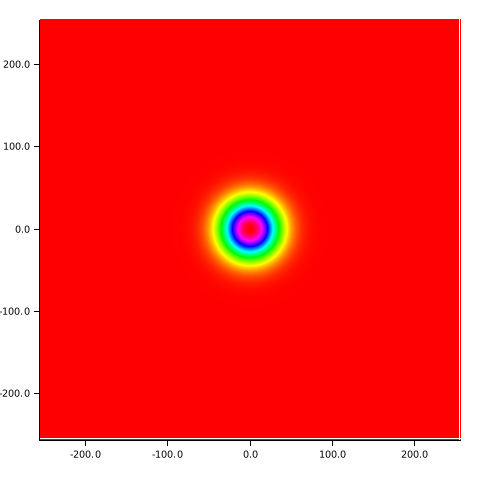
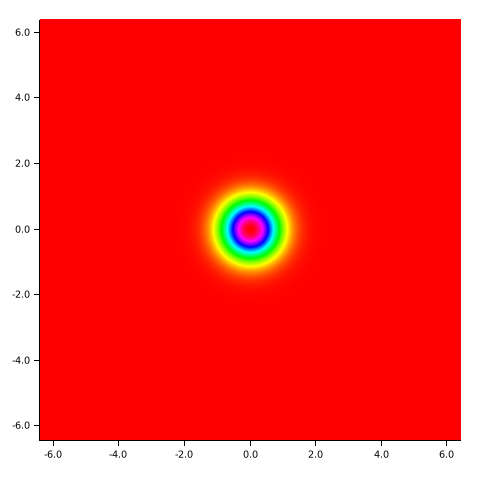
add an imaginary time solver and resolve clippy lints

diff --git a/src/solver.rs b/src/solver.rs
@@ -298,7 +298,7 @@ impl Solver {
     /// # Ok(())
     /// # }
     /// ```
-    pub fn evolve(&mut self, psi: &mut [C], dt: f64, nt: usize) -> Result<(), SolverError>
+    pub fn evolve(&mut self, psi: &mut [C], dt: R, nt: usize) -> Result<(), SolverError>
     {
         // check that `psi` has the right number of points
         if psi.len() != self.n_points {
@@ -313,6 +313,72 @@ impl Solver {
             self.evolve_k_space(psi, dt)?;
         }
         self.evolve_x_space(psi, 0.5*dt);
+
+        Ok(())
+    }
+    
+    /// evolve the wave function in imaginary time
+    ///
+    /// # Arguments
+    ///
+    /// * `psi`: array containing the initial condition; it will be mofidied to contain the final
+    /// configuration
+    /// * `dt`: time step
+    /// * `nt`: number of time steps
+    ///
+    /// # Error
+    ///
+    /// Return a `SolverError` if the input has a length different from `n_points` or if one of the
+    /// (direct or inverse) Fourier transforms fails.
+    ///
+    /// # Example
+    ///
+    /// ```
+    /// use nonlinear_schrodinger::prelude::*;
+    ///
+    /// # fn main() -> Result<(), nonlinear_schrodinger::SolverError> {
+    /// #
+    /// // parameters
+    /// let shape: Vec<usize> = vec![128, 128];
+    /// let steps: Vec<R> = vec![0.1, 0.1];
+    /// let potential_fun = |x: &[R]| { 0. };
+    /// let g = |x| x;
+    ///
+    /// // build the solver
+    /// let mut solver = Solver::new(shape, steps, Box::new(potential_fun), Box::new(g))?;
+    ///
+    /// // initial condition
+    /// let mut psi = vec![C::new(1., 0.); 128*128];
+    ///
+    /// // evolution
+    /// let dt = 0.1;
+    /// let nt = 100;
+    /// solver.evolve_i(&mut psi, dt, nt)?;
+    /// #
+    /// # Ok(())
+    /// # }
+    /// ```
+    pub fn evolve_i(&mut self, psi: &mut [C], dt: R, nt: usize) -> Result<(), SolverError>
+    {
+        // check that `psi` has the right number of points
+        if psi.len() != self.n_points {
+            return Err(SolverError { message: format!(
+                        "Invalid input size: expected {}, got {}",
+                        self.n_points, psi.len())});
+        }
+
+        let m0 = self.mass(psi)?;
+
+        self.evolve_x_space_i(psi, -0.5*dt);
+        self.renormalize(psi, m0)?;
+        for _ in 0..nt {
+            self.evolve_x_space_i(psi, dt);
+            self.renormalize(psi, m0)?;
+            self.evolve_k_space_i(psi, dt)?;
+            self.renormalize(psi, m0)?;
+        }
+        self.evolve_x_space_i(psi, 0.5*dt);
+        self.renormalize(psi, m0)?;
 
         Ok(())
     }
@@ -364,25 +430,95 @@ impl Solver {
     /// # Ok(())
     /// # }
     /// ```
-    pub fn evolve_oop(&mut self, psi0: &[C], dt: f64, nt: usize) -> Result<Vec<C>, SolverError>
+    pub fn evolve_oop(&mut self, psi0: &[C], dt: R, nt: usize) -> Result<Vec<C>, SolverError>
     {
         let mut psi = psi0.to_vec();
         self.evolve(&mut psi, dt, nt)?;
         Ok(psi)
     }
+    
+    /// evolve the wave function in imaginary time out of place
+    ///
+    /// # Arguments
+    ///
+    /// * `psi`: array containing the initial condition; it will be mofidied to contain the final
+    /// configuration
+    /// * `dt`: time step
+    /// * `nt`: number of time steps
+    ///
+    /// # Error
+    ///
+    /// Return a `SolverError` if the input has a length different from `n_points` or if one of the
+    /// (direct or inverse) Fourier transforms fails.
+    ///
+    /// # Example
+    ///
+    /// ```
+    /// use nonlinear_schrodinger::prelude::*;
+    ///
+    /// # fn main() -> Result<(), nonlinear_schrodinger::SolverError> {
+    /// #
+    /// // parameters
+    /// let shape: Vec<usize> = vec![128, 128];
+    /// let steps: Vec<R> = vec![0.1, 0.1];
+    /// let potential_fun = |x: &[R]| { 0. };
+    /// let g = |x| x;
+    ///
+    /// // build the solver
+    /// let mut solver = Solver::new(shape, steps, Box::new(potential_fun), Box::new(g))?;
+    ///
+    /// // initial condition
+    /// let psi0 = vec![C::new(1., 0.); 128*128];
+    ///
+    /// // evolution
+    /// let dt = 0.1;
+    /// let nt = 100;
+    /// let psi = solver.evolve_i_oop(&psi0, dt, nt)?;
+    /// #
+    /// # Ok(())
+    /// # }
+    /// ```
+    pub fn evolve_i_oop(&mut self, psi0: &[C], dt: R, nt: usize) -> Result<Vec<C>, SolverError>
+    {
+        let mut psi = psi0.to_vec();
+        self.evolve_i(&mut psi, dt, nt)?;
+        Ok(psi)
+    }
 
-    fn evolve_x_space(&self, psi: &mut [C], dt: f64) {
+    fn evolve_x_space(&self, psi: &mut [C], dt: R) {
         psi.iter_mut().zip(self.potential.iter()).for_each(|(psi, &v)| 
             *psi *= C::new(0., (v + (self.g)(psi.abs2())) * dt).exp()
         );
     }
 
-    fn evolve_k_space(&mut self, psi: &mut [C], dt: f64) -> Result<(), SolverError> {
+    fn evolve_k_space(&mut self, psi: &mut [C], dt: R) -> Result<(), SolverError> {
         self.ft_struct.ft_inplace(psi, &mut self.buffer)?;
         self.buffer.iter_mut().zip(self.kinetic.iter()).for_each(|(psi, &half_k2)| {
             *psi *= C::new(0., half_k2 * dt).exp();
         });
         self.ft_struct.ift_inplace(&mut self.buffer, psi)?;
+        Ok(())
+    }
+    
+    fn evolve_x_space_i(&self, psi: &mut [C], dt: R) {
+        psi.iter_mut().zip(self.potential.iter()).for_each(|(psi, &v)| 
+            *psi *= C::new(- (v + (self.g)(psi.abs2())) * dt, 0.).exp()
+        );
+    }
+
+    fn evolve_k_space_i(&mut self, psi: &mut [C], dt: R) -> Result<(), SolverError> {
+        self.ft_struct.ft_inplace(psi, &mut self.buffer)?;
+        self.buffer.iter_mut().zip(self.kinetic.iter()).for_each(|(psi, &half_k2)| {
+            *psi *= C::new(- half_k2 * dt, 0.).exp();
+        });
+        self.ft_struct.ift_inplace(&mut self.buffer, psi)?;
+        Ok(())
+    }
+    
+    fn renormalize(&self, psi: &mut [C], m0: R) -> Result<(), SolverError> {
+        let m = self.mass(psi)?;
+        let prefactor = (m0/m).sqrt();
+        psi.iter_mut().for_each(|x| { *x *= prefactor });
         Ok(())
     }
 }

diff --git a/src/plotters.rs b/src/plotters.rs
@@ -1,6 +1,12 @@
 use plotters::prelude::*;
 use crate::R;
 
+#[allow(non_upper_case_globals)]
+const Lx: u32 = 640;
+#[allow(non_upper_case_globals)]
+const Ly: u32 = 480;
+
+#[allow(clippy::too_many_arguments)]
 pub fn plot_1d(x: &[Vec<R>], y: &[Vec<R>], fname: &str,
         title: &str, xlabel: &str, ylabel: &str, labels: &[String],
         col1: (u8, u8, u8), col2: (u8, u8, u8)) 
@@ -14,7 +20,7 @@ pub fn plot_1d(x: &[Vec<R>], y: &[Vec<R>], fname: &str,
     }
  
     let fname = format!("{}.svg", fname);
-    let root = SVGBackend::new(&fname, (640, 480)).into_drawing_area();
+    let root = SVGBackend::new(&fname, (Lx, Ly)).into_drawing_area();
         
     // find the minimum and maximum of x and y
     let (x_min, x_max) = find_min_max(x)?;
@@ -82,9 +88,11 @@ pub fn plot_1d(x: &[Vec<R>], y: &[Vec<R>], fname: &str,
     Ok(())
 }
 
-pub fn plot_2d(z: &Vec<R>, fname: &str, 
+#[allow(clippy::too_many_arguments)]
+pub fn plot_2d(z: &[R], fname: &str, 
         x_min: R, x_max: R, y_min: R, y_max: R,
-        nx: usize, ny: usize)
+        nx: usize, ny: usize, 
+        show_axes: bool)
     -> Result<(), Box<dyn std::error::Error>> 
 {
      
@@ -95,17 +103,29 @@ pub fn plot_2d(z: &Vec<R>, fname: &str,
     }
  
     let fname = format!("{}.png", fname);
-    let root = BitMapBackend::new(&fname, (480, 480)).into_drawing_area();
+    let (lx, ly) = (Ly, ((Ly as R) * (y_max-y_min) / (x_max-x_min)) as u32);
+    let root = BitMapBackend::new(&fname, (lx, ly)).into_drawing_area();
         
     // find the minimum and maximum of x, y, and z
-    let (z_min, z_max) = find_min_max(&[z.clone()])?;
+    let (z_min, z_max) = find_min_max(&[z.to_vec()])?;
      
     root.fill(&WHITE)?;
-    let root = root.margin(20, 20, 20, 20);
-    let mut chart = ChartBuilder::on(&root)
-        .x_label_area_size(20)
-        .y_label_area_size(20)
-        .build_cartesian_2d(x_min..x_max, y_min..y_max)?;
+    let root = if show_axes { 
+        root.margin(20, 20, 20, 20)
+    } else {
+        root.margin(0, 0, 0, 0)
+    };
+    let mut chart = if show_axes { 
+        ChartBuilder::on(&root)
+            .x_label_area_size(20)
+            .y_label_area_size(20)
+            .build_cartesian_2d(x_min..x_max, y_min..y_max)?
+    } else {
+        ChartBuilder::on(&root)
+            .x_label_area_size(0)
+            .y_label_area_size(0)
+            .build_cartesian_2d(x_min..x_max, y_min..y_max)?
+    };
 
     chart
         .configure_mesh()
@@ -119,10 +139,10 @@ pub fn plot_2d(z: &Vec<R>, fname: &str,
     let range = plotting_area.get_pixel_range();
     let (pw, ph) = (range.0.end - range.0.start, range.1.end - range.1.start);
     let (xr, yr) = (chart.x_range(), chart.y_range());
-    for a in 0..pw {
-        for b in 0..ph {
-            let xr = xr.start + (b as R / (pw as R - 1.)) * (xr.end - xr.start);
-            let yr = yr.start + (a as R / (ph as R - 1.)) * (yr.end - yr.start);
+    for a in 0..=ph {
+        for b in 0..=pw {
+            let xr = xr.start + (b as R / (pw as R)) * (xr.end - xr.start);
+            let yr = yr.start + (a as R / (ph as R)) * (yr.end - yr.start);
             let ir = (xr-x_min) / dx;
             let jr = (yr-y_min) / dy;
             let i = ir.floor();
@@ -156,6 +176,7 @@ pub fn plot_2d(z: &Vec<R>, fname: &str,
         }
     }
 
+    #[allow(clippy::expect_fun_call)]
     root.present().expect(&format!("Unable to write fo file {}", fname));
 
     Ok(())
@@ -167,23 +188,23 @@ fn find_min_max<T: PartialOrd + Copy>(x: &[Vec<T>]) -> Result<(T,T), TextError> 
     let mut x_min: Option<T> = None;
     let mut x_max: Option<T> = None;
     
-    for j in 0..x.len() {
-        for i in 0..x[j].len() {
+    for x in x.iter() {
+        for &x in x.iter() {
             if let (Some(x_min_c), Some(x_max_c)) = (x_min, x_max) {
-               if x[j][i] < x_min_c { x_min = Some(x[j][i]) };
-                if x[j][i] > x_max_c { x_max = Some(x[j][i]) };
+               if x < x_min_c { x_min = Some(x) };
+                if x > x_max_c { x_max = Some(x) };
             } else {
-                x_min = Some(x[j][i]);
-                x_max = Some(x[j][i]);
+                x_min = Some(x);
+                x_max = Some(x);
             } 
         }
     }
     
     if let (Some(x_min_c), Some(x_max_c)) = (x_min, x_max) {
-        return Ok((x_min_c, x_max_c));
+        Ok((x_min_c, x_max_c))
     } else {
-        return Err(TextError::new("I can't compute the min and mad of an empty array"
-                                  .to_string()));
+        Err(TextError::new("I can't compute the min and mad of an empty array"
+                           .to_string()))
     }
 }
 
